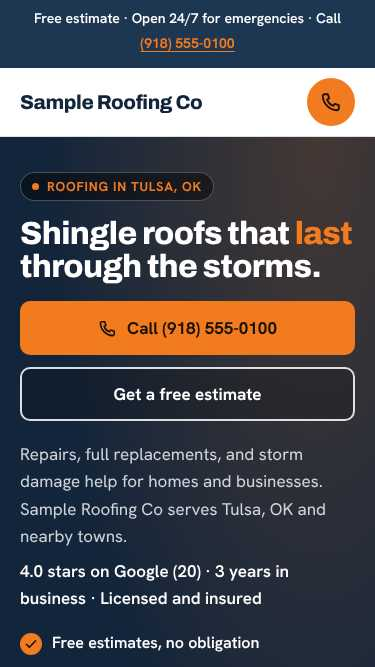
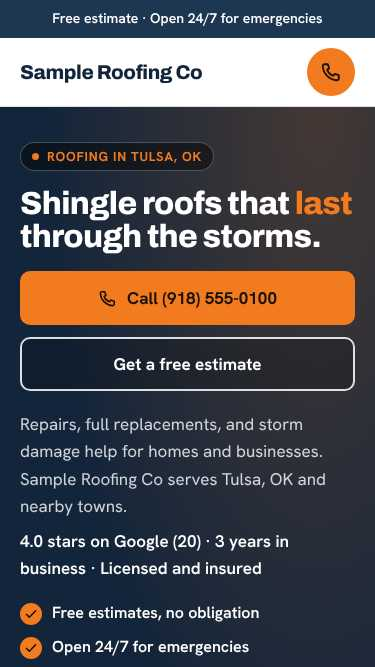
sitemaker QA 920705e polish: Cinematic phone first frame has one button (trust facts sit in the proof bar just below), Editorial hero silhouette apex on foliage not sky, picker prices in the sans (no Didone $ gap), picker pictures framed per trade (roof high, driveway low), Classic phone photo band 
Claude-Session: https://claude.ai/code/session_013FPdmvdFwEUwCe9wgNc5SW

diff --git a/sitemaker/maker.html b/sitemaker/maker.html
@@ -3672,7 +3672,8 @@ function pickerHtml(o) {
       <div class="vp-btns">${it.before ? `<button type="button" class="vp-btn vp-ghost vp-cmp" aria-pressed="false" aria-controls="vp-p-${i}">${VP_ARROWS}<span>Compare before and after</span></button>` : ""}<a class="vp-btn vp-solid" href="#contact" data-job="${vpEsc(jobFor(it.label, it.key))}">Ask about this</a></div></div>
   </div>`;
   }).join("\n  ");
-  return `<section class="vp${solo ? " vp-solo" : ""} ${o.cls || ""}" id="styles" aria-labelledby="vp-h" data-vp="1"><div class="vp-wrap">
+  const fp = { roofing: "50% 32%", fencing: "50% 55%", pressure: "50% 62%" }[o.tradeKey];
+  return `<section class="vp${solo ? " vp-solo" : ""} ${o.cls || ""}" id="styles"${fp ? ` style="--fp-m:${fp};--fp-d:${fp}"` : ""} aria-labelledby="vp-h" data-vp="1"><div class="vp-wrap">
   ${head}
   <div class="vp-chips-wrap"><div class="vp-chips" role="tablist" aria-label="${vpEsc(noun[0].toUpperCase() + noun.slice(1))}">${chips}</div></div>
   ${panels}
@@ -3726,7 +3727,7 @@ const PICKER_CSS = `
 .vp-name{margin:0;font:500 clamp(28px,5vw,40px)/1.08 var(--vp-head,inherit);letter-spacing:-.01em}
 .vp-note{margin:0;color:var(--vp-muted);font-size:17px;line-height:1.5;max-width:42ch}
 .vp-price{margin:0;display:grid;gap:2px;font-size:16px;color:var(--vp-ink)}
-.vp-price b{font:600 22px/1.2 var(--vp-head,inherit)}
+.vp-price b{font:700 21px/1.2 var(--vp-sans,inherit);letter-spacing:-.01em}
 .vp-price>span:last-child{font-size:14px;color:var(--vp-muted)}
 .vp-btns{display:flex;flex-wrap:wrap;gap:10px;margin-top:6px}
 .vp-btn{display:inline-flex;align-items:center;justify-content:center;gap:10px;min-height:52px;padding:0 22px;border:0;border-radius:var(--vp-btn-r,999px);font:700 16px/1 var(--vp-sans,inherit);text-decoration:none;cursor:pointer;transition:transform .16s ease,box-shadow .2s ease,background-color .2s ease,color .2s ease}
@@ -4128,6 +4129,7 @@ a:focus-visible,button:focus-visible,summary:focus-visible,.dial:focus-visible{o
   .cine-motion .frame::after{background:linear-gradient(0deg,var(--dark) 0%,rgba(0,0,0,0) 26%)}
   .cine-motion .step .line{bottom:calc(var(--cta-h,200px) + 30px)}
   .cine-motion .line .h{font-size:clamp(46px,12.4vw,54px);text-shadow:none}
+  .cine-motion .story-cta .ask-link,.cine-motion .story-cta .story-trust{display:none}
   .cine-motion .prog-count{top:12px}
 }
 .panel img[data-real],.ba img[data-real]{object-position:72% 45%}
@@ -4848,7 +4850,8 @@ a:focus-visible,button:focus-visible,summary:focus-visible,input:focus-visible+s
 .ed-cta{display:flex;flex-wrap:wrap;align-items:center;gap:14px 20px;margin-top:20px}
 .ed-sil{position:relative;aspect-ratio:4/3;background:var(--ed-dark);overflow:hidden;clip-path:var(--ed-clip,polygon(0% 100%,0% 42%,50% 2%,100% 42%,100% 100%))}
 .ed-sil img,.ed-beat img,.ed-card img,.ed-pic img{position:absolute;inset:0;width:100%;height:100%;object-fit:cover;object-position:50% 6%;display:block}
-.ed-sil img[data-real],.ed-card img[data-real],.ed-pic img[data-real],.ed-row-pic img[data-real],.ed-process-pic img[data-real],.ed-how-pic img[data-real]{object-position:72% 45%}
+.ed-sil img[data-real]{object-position:60% 38%}
+.ed-card img[data-real],.ed-pic img[data-real],.ed-row-pic img[data-real],.ed-process-pic img[data-real],.ed-how-pic img[data-real]{object-position:72% 45%}
 .ed-beat img[data-real]{object-position:85% 50%}
 .ed-cap{position:absolute;left:12px;bottom:12px;z-index:2;padding:5px 10px;border-radius:999px;background:rgba(0,0,0,.6);color:#fff;font:600 11px/1 var(--ed-sans);letter-spacing:.1em;text-transform:uppercase}
 .ed-cap[hidden]{display:none}
@@ -5577,8 +5580,9 @@ function generateClassic(form, d, o) {
   const offerParts = [];
   if (d.freeEstimates) offerParts.push(promise ? esc(promise.offer.split(".")[0]) : "Free estimates");
   if (d.emergency) offerParts.push("Open 24/7 for emergencies");
-  if (d.phone) offerParts.push(`Call <a href="${callHref}">${phoneShow}</a>`);
-  const offerBar = offerParts.length ? `<div class="cl-offer"><p>${offerParts.join('<span aria-hidden="true"> · </span>')}</p></div>` : "";
+  const sep = '<span aria-hidden="true"> · </span>';
+  const offerCall = d.phone ? `<span class="cl-offer-call">${offerParts.length ? sep : ""}Call <a href="${callHref}">${phoneShow}</a></span>` : "";
+  const offerBar = offerParts.length || offerCall ? `<div class="cl-offer"><p${offerParts.length ? ' class="has-offer"' : ""}>${offerParts.join(sep)}${offerCall}</p></div>` : "";
 
   // 2. Hero checks: license, certification, warranty, else the ticks.
   const c = d.cred, checks = [];
@@ -5623,6 +5627,9 @@ function generateClassic(form, d, o) {
   const badges = credBadges(d);
   const proof = badges.length ? `<section class="cl-proof" id="proof" aria-label="Why people trust us"><div class="wrap"><ul>${badges.slice(0, 5).map((b, i) => `<li class="rv${i >= 4 ? " cl-p5" : ""}">${b.url ? `<a href="${esc(b.url)}" target="_blank" rel="noopener noreferrer">` : ""}<b>${esc(b.label)}</b>${b.sub ? `<span>${esc(b.sub)}</span>` : ""}${b.url ? "</a>" : ""}</li>`).join("")}</ul></div></section>` : "";
 
+  // 3b. Phones: one full-width photo of finished work between the proof strip and the cards (real pictures only).
+  const bandItem = items.find((x) => safeImage(imgs[x.after]));
+  const photoBand = bandItem ? `<figure class="cl-photo-band"><img src="${esc(imgs[bandItem.after])}" alt="${esc(bandItem.label)}" loading="lazy" decoding="async"><figcaption>${esc(bandItem.label)}</figcaption></figure>` : "";
   // 4. Service cards with a small tag.
   const services = `<section class="sec" id="services"><div class="wrap">
   <div class="cl-head rv"><p class="cl-kicker">Services</p><h2>Every ${esc(tradeName.toLowerCase())} job, one crew${area ? ` in ${area}` : ""}</h2></div>
@@ -5735,6 +5742,7 @@ ${offerBar}
 <main id="top">
 ${heroSec}
 ${proof}
+${photoBand}
 ${services}
 ${picker}
 ${featured}
@@ -5787,6 +5795,11 @@ a:focus-visible,button:focus-visible,summary:focus-visible,input:focus-visible,s
 .btn-dark{background:var(--dark);color:#fff}
 /* offer bar + header */
 .cl-offer{background:var(--dark2);color:#fff;font:600 14px/1.4 var(--body);text-align:center;padding:9px 16px}
+.cl-photo-band{display:none;margin:0;position:relative}
+.cl-photo-band img{display:block;width:100%;aspect-ratio:16/9;object-fit:cover}
+.cl-photo-band figcaption{position:absolute;left:12px;bottom:12px;font:800 12px/1 var(--body);letter-spacing:.1em;text-transform:uppercase;color:#fff;background:rgba(0,0,0,.6);padding:7px 10px;border-radius:6px}
+@media (max-width:1023px){.cl-photo-band{display:block}}
+@media (max-width:639px){.has-offer .cl-offer-call{display:none}}
 .cl-offer a{color:var(--hi);font-weight:700;display:inline-flex;align-items:center;min-height:48px;margin-block:-9px}
 .top{position:sticky;top:0;z-index:30;background:#fff;box-shadow:0 1px 0 var(--line)}
 .top .wrap{display:flex;align-items:center;gap:24px;min-height:68px}

diff --git a/sitemaker/src/classic.js b/sitemaker/src/classic.js
@@ -62,8 +62,9 @@ export function generateClassic(form, d, o) {
   const offerParts = [];
   if (d.freeEstimates) offerParts.push(promise ? esc(promise.offer.split(".")[0]) : "Free estimates");
   if (d.emergency) offerParts.push("Open 24/7 for emergencies");
-  if (d.phone) offerParts.push(`Call <a href="${callHref}">${phoneShow}</a>`);
-  const offerBar = offerParts.length ? `<div class="cl-offer"><p>${offerParts.join('<span aria-hidden="true"> · </span>')}</p></div>` : "";
+  const sep = '<span aria-hidden="true"> · </span>';
+  const offerCall = d.phone ? `<span class="cl-offer-call">${offerParts.length ? sep : ""}Call <a href="${callHref}">${phoneShow}</a></span>` : "";
+  const offerBar = offerParts.length || offerCall ? `<div class="cl-offer"><p${offerParts.length ? ' class="has-offer"' : ""}>${offerParts.join(sep)}${offerCall}</p></div>` : "";
 
   // 2. Hero checks: license, certification, warranty, else the ticks.
   const c = d.cred, checks = [];
@@ -108,6 +109,9 @@ export function generateClassic(form, d, o) {
   const badges = credBadges(d);
   const proof = badges.length ? `<section class="cl-proof" id="proof" aria-label="Why people trust us"><div class="wrap"><ul>${badges.slice(0, 5).map((b, i) => `<li class="rv${i >= 4 ? " cl-p5" : ""}">${b.url ? `<a href="${esc(b.url)}" target="_blank" rel="noopener noreferrer">` : ""}<b>${esc(b.label)}</b>${b.sub ? `<span>${esc(b.sub)}</span>` : ""}${b.url ? "</a>" : ""}</li>`).join("")}</ul></div></section>` : "";
 
+  // 3b. Phones: one full-width photo of finished work between the proof strip and the cards (real pictures only).
+  const bandItem = items.find((x) => safeImage(imgs[x.after]));
+  const photoBand = bandItem ? `<figure class="cl-photo-band"><img src="${esc(imgs[bandItem.after])}" alt="${esc(bandItem.label)}" loading="lazy" decoding="async"><figcaption>${esc(bandItem.label)}</figcaption></figure>` : "";
   // 4. Service cards with a small tag.
   const services = `<section class="sec" id="services"><div class="wrap">
   <div class="cl-head rv"><p class="cl-kicker">Services</p><h2>Every ${esc(tradeName.toLowerCase())} job, one crew${area ? ` in ${area}` : ""}</h2></div>
@@ -220,6 +224,7 @@ ${offerBar}
 <main id="top">
 ${heroSec}
 ${proof}
+${photoBand}
 ${services}
 ${picker}
 ${featured}
@@ -272,6 +277,11 @@ a:focus-visible,button:focus-visible,summary:focus-visible,input:focus-visible,s
 .btn-dark{background:var(--dark);color:#fff}
 /* offer bar + header */
 .cl-offer{background:var(--dark2);color:#fff;font:600 14px/1.4 var(--body);text-align:center;padding:9px 16px}
+.cl-photo-band{display:none;margin:0;position:relative}
+.cl-photo-band img{display:block;width:100%;aspect-ratio:16/9;object-fit:cover}
+.cl-photo-band figcaption{position:absolute;left:12px;bottom:12px;font:800 12px/1 var(--body);letter-spacing:.1em;text-transform:uppercase;color:#fff;background:rgba(0,0,0,.6);padding:7px 10px;border-radius:6px}
+@media (max-width:1023px){.cl-photo-band{display:block}}
+@media (max-width:639px){.has-offer .cl-offer-call{display:none}}
 .cl-offer a{color:var(--hi);font-weight:700;display:inline-flex;align-items:center;min-height:48px;margin-block:-9px}
 .top{position:sticky;top:0;z-index:30;background:#fff;box-shadow:0 1px 0 var(--line)}
 .top .wrap{display:flex;align-items:center;gap:24px;min-height:68px}

diff --git a/sitemaker/src/picker.js b/sitemaker/src/picker.js
@@ -95,7 +95,8 @@ export function pickerHtml(o) {
       <div class="vp-btns">${it.before ? `<button type="button" class="vp-btn vp-ghost vp-cmp" aria-pressed="false" aria-controls="vp-p-${i}">${VP_ARROWS}<span>Compare before and after</span></button>` : ""}<a class="vp-btn vp-solid" href="#contact" data-job="${vpEsc(jobFor(it.label, it.key))}">Ask about this</a></div></div>
   </div>`;
   }).join("\n  ");
-  return `<section class="vp${solo ? " vp-solo" : ""} ${o.cls || ""}" id="styles" aria-labelledby="vp-h" data-vp="1"><div class="vp-wrap">
+  const fp = { roofing: "50% 32%", fencing: "50% 55%", pressure: "50% 62%" }[o.tradeKey];
+  return `<section class="vp${solo ? " vp-solo" : ""} ${o.cls || ""}" id="styles"${fp ? ` style="--fp-m:${fp};--fp-d:${fp}"` : ""} aria-labelledby="vp-h" data-vp="1"><div class="vp-wrap">
   ${head}
   <div class="vp-chips-wrap"><div class="vp-chips" role="tablist" aria-label="${vpEsc(noun[0].toUpperCase() + noun.slice(1))}">${chips}</div></div>
   ${panels}
@@ -149,7 +150,7 @@ export const PICKER_CSS = `
 .vp-name{margin:0;font:500 clamp(28px,5vw,40px)/1.08 var(--vp-head,inherit);letter-spacing:-.01em}
 .vp-note{margin:0;color:var(--vp-muted);font-size:17px;line-height:1.5;max-width:42ch}
 .vp-price{margin:0;display:grid;gap:2px;font-size:16px;color:var(--vp-ink)}
-.vp-price b{font:600 22px/1.2 var(--vp-head,inherit)}
+.vp-price b{font:700 21px/1.2 var(--vp-sans,inherit);letter-spacing:-.01em}
 .vp-price>span:last-child{font-size:14px;color:var(--vp-muted)}
 .vp-btns{display:flex;flex-wrap:wrap;gap:10px;margin-top:6px}
 .vp-btn{display:inline-flex;align-items:center;justify-content:center;gap:10px;min-height:52px;padding:0 22px;border:0;border-radius:var(--vp-btn-r,999px);font:700 16px/1 var(--vp-sans,inherit);text-decoration:none;cursor:pointer;transition:transform .16s ease,box-shadow .2s ease,background-color .2s ease,color .2s ease}

diff --git a/sitemaker/src/editorial.js b/sitemaker/src/editorial.js
@@ -122,7 +122,8 @@ a:focus-visible,button:focus-visible,summary:focus-visible,input:focus-visible+s
 .ed-cta{display:flex;flex-wrap:wrap;align-items:center;gap:14px 20px;margin-top:20px}
 .ed-sil{position:relative;aspect-ratio:4/3;background:var(--ed-dark);overflow:hidden;clip-path:var(--ed-clip,polygon(0% 100%,0% 42%,50% 2%,100% 42%,100% 100%))}
 .ed-sil img,.ed-beat img,.ed-card img,.ed-pic img{position:absolute;inset:0;width:100%;height:100%;object-fit:cover;object-position:50% 6%;display:block}
-.ed-sil img[data-real],.ed-card img[data-real],.ed-pic img[data-real],.ed-row-pic img[data-real],.ed-process-pic img[data-real],.ed-how-pic img[data-real]{object-position:72% 45%}
+.ed-sil img[data-real]{object-position:60% 38%}
+.ed-card img[data-real],.ed-pic img[data-real],.ed-row-pic img[data-real],.ed-process-pic img[data-real],.ed-how-pic img[data-real]{object-position:72% 45%}
 .ed-beat img[data-real]{object-position:85% 50%}
 .ed-cap{position:absolute;left:12px;bottom:12px;z-index:2;padding:5px 10px;border-radius:999px;background:rgba(0,0,0,.6);color:#fff;font:600 11px/1 var(--ed-sans);letter-spacing:.1em;text-transform:uppercase}
 .ed-cap[hidden]{display:none}

diff --git a/sitemaker/src/cinematic.js b/sitemaker/src/cinematic.js
@@ -184,6 +184,7 @@ a:focus-visible,button:focus-visible,summary:focus-visible,.dial:focus-visible{o
   .cine-motion .frame::after{background:linear-gradient(0deg,var(--dark) 0%,rgba(0,0,0,0) 26%)}
   .cine-motion .step .line{bottom:calc(var(--cta-h,200px) + 30px)}
   .cine-motion .line .h{font-size:clamp(46px,12.4vw,54px);text-shadow:none}
+  .cine-motion .story-cta .ask-link,.cine-motion .story-cta .story-trust{display:none}
   .cine-motion .prog-count{top:12px}
 }
 .panel img[data-real],.ba img[data-real]{object-position:72% 45%}
